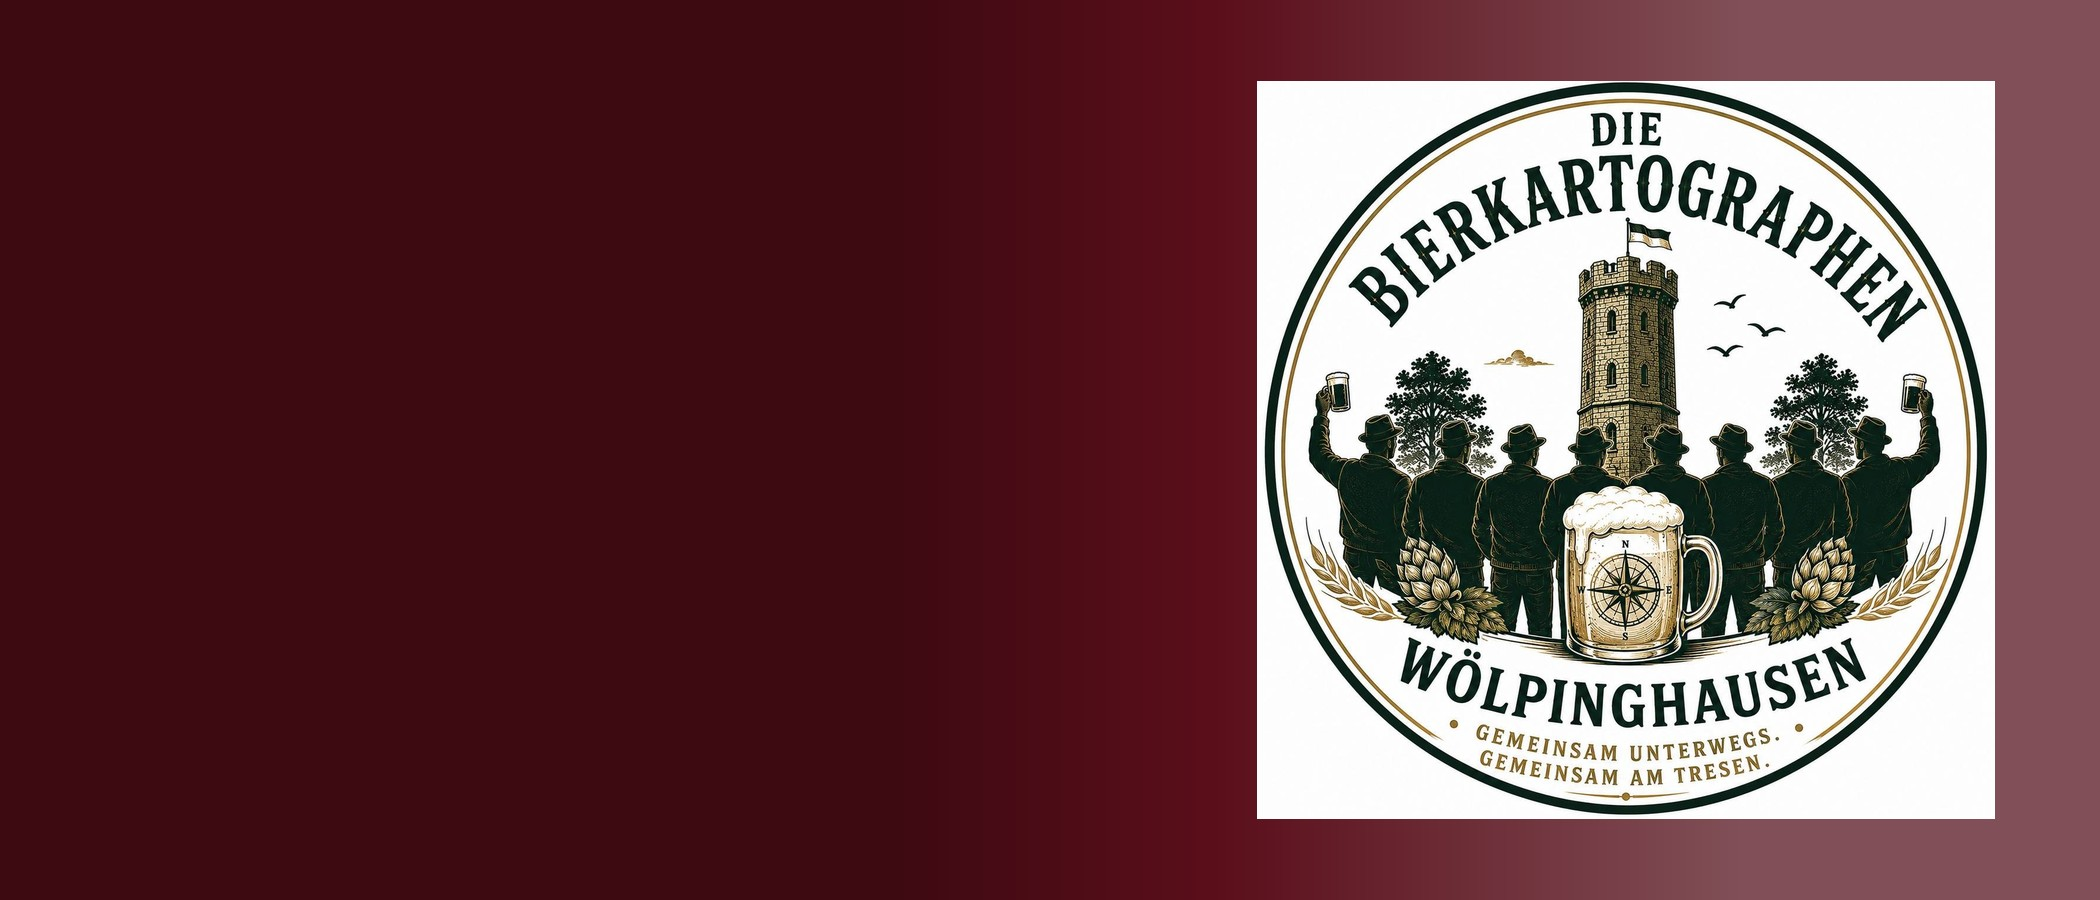
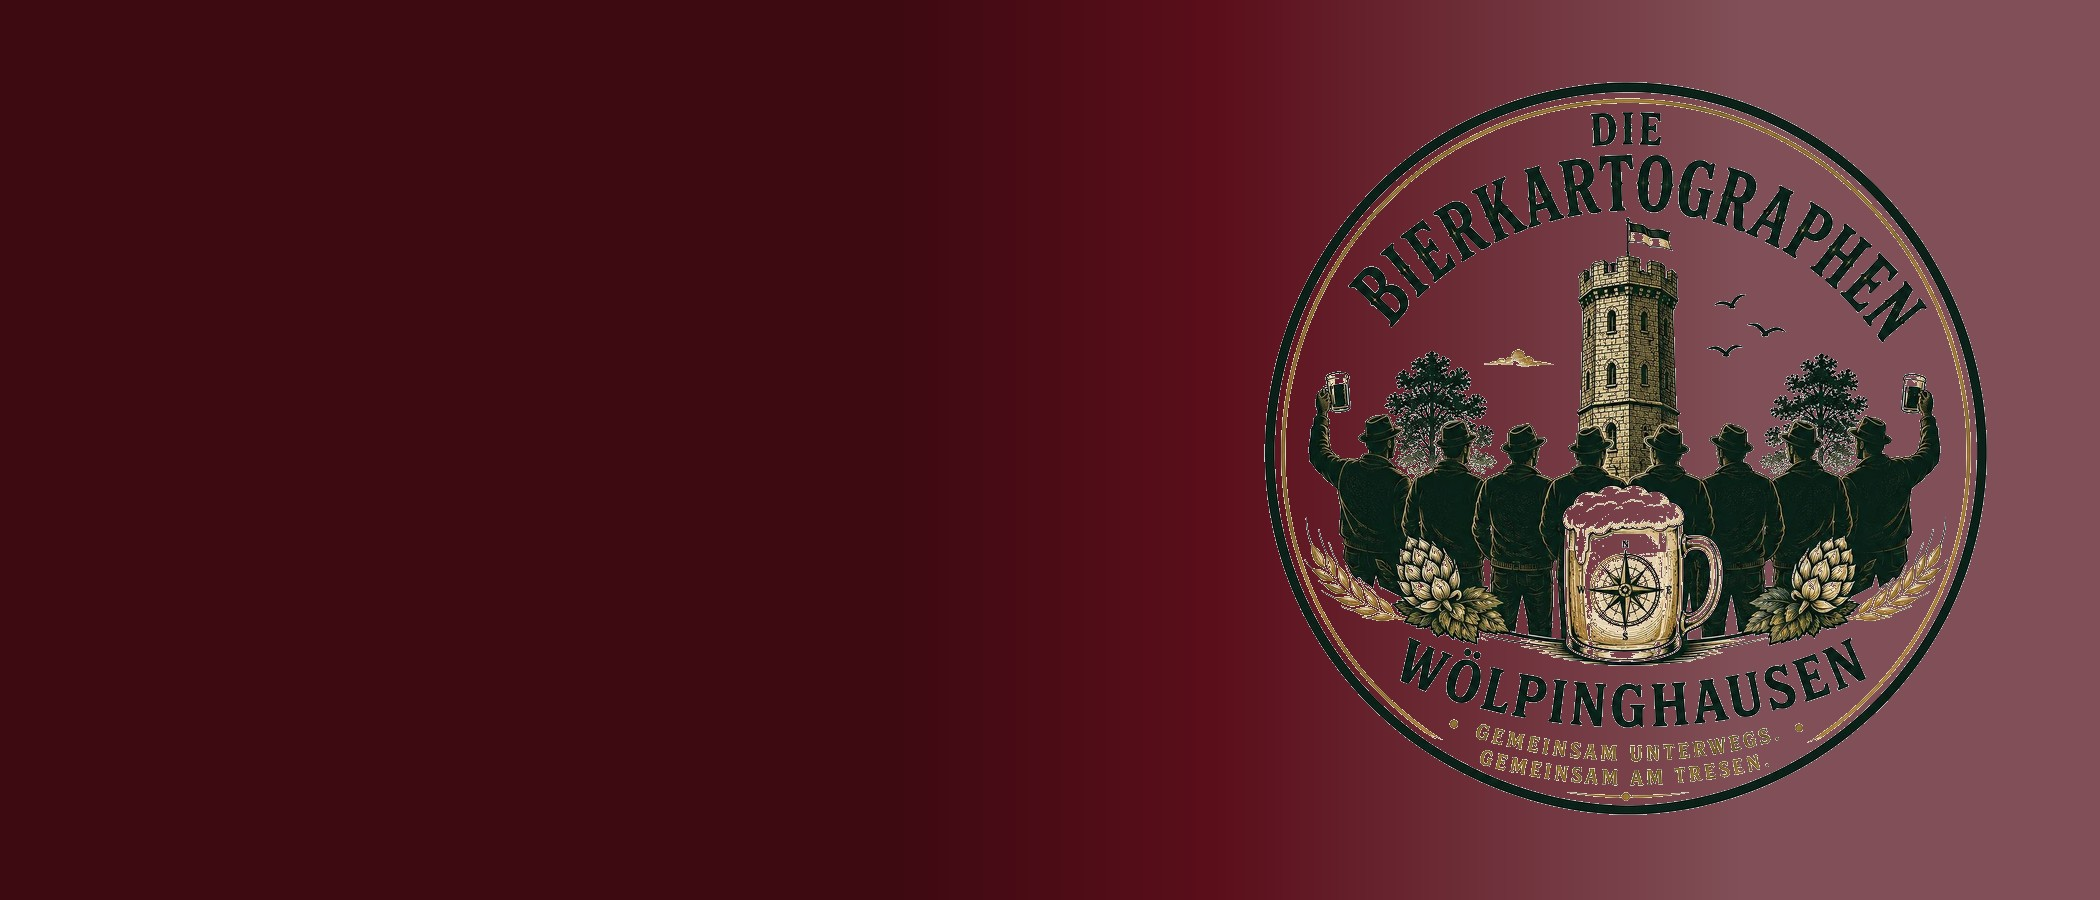
Remove white edge from hero cover image

Changed region(s): [[0.5881, 0.0622, 0.9595, 0.9333], [0.8357, 0.6222, 0.8667, 0.6533], [0.681, 0.6222, 0.7119, 0.6533]]

diff --git a/tools/create_hero_cover.py b/tools/create_hero_cover.py
@@ -30,12 +30,18 @@ target_h = int(H * 0.82)
 target_w = int(logo.width * target_h / logo.height)
 logo = logo.resize((target_w, target_h), Image.LANCZOS)
 
+# Weißen Bildhintergrund transparent machen, damit kein harter Rand entsteht
+px = logo.load()
+for py in range(logo.height):
+    for px_x in range(logo.width):
+        r, g, b, a = px[px_x, py]
+        if a > 0 and r > 210 and g > 210 and b > 210:
+            px[px_x, py] = (BORDEAUX[0], BORDEAUX[1], BORDEAUX[2], 0)
+
 x = W - target_w - int(W * 0.05)
 y = (H - target_h) // 2
 
-bg = Image.new("RGBA", logo.size, (*BORDEAUX, 255))
 logo_layer = Image.new("RGBA", canvas.size, (0, 0, 0, 0))
-logo_layer.paste(bg, (x, y))
 logo_layer.paste(logo, (x, y), logo)
 canvas = Image.alpha_composite(canvas.convert("RGBA"), logo_layer).convert("RGB")
 